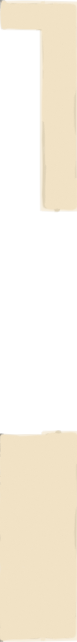
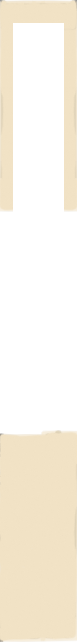
Updated Lock Tumblers
Updated and added more sprite files for tumblers and springs. Aligned and spawned assets within the ECS.

Changed region(s): [[0.0, 0.0312, 0.8312, 0.3427], [0.9351, 0.0, 1.0, 0.0312]]

diff --git a/lockpick/src/features/lock/systems.rs b/lockpick/src/features/lock/systems.rs
@@ -2,16 +2,21 @@ use bevy::prelude::*;
 use bevy::ui::debug::print_ui_layout_tree;
 use rand::prelude::*;
 
-use super::components::LockComponent;
+use super::components::{LockComponent, TumblerChamberComponent};
 use super::resource::{LockSpriteHandles, NumberOfTumblersToSpawn};
-use super::tumblers;
+use super::tumblers::components::TumblerComponent;
+use super::spring::components::SpringComponent;
 
 
 //Hardcoded Sprite Sizes so that they don't have to be sought dynamically, async loading is a pain in the ass
-const START_SPRITE_SIZE : f32= 669.0;
-const TUMBLER_SPRITE_SIZE : f32= 77.0;
-const END_SPRITE_SIZE : f32= 149.0;
+const LOCK_START_SPRITE_WIDTH: f32= 669.0;
+const TUMBLER_CHAMBER_SPRITE_WIDTH: f32= 77.0;
+const LOCK_END_SPRITE_WIDTH: f32= 149.0;
+const TOP_OF_CHAMBER: f32= 298.0;
 
+const HEIGHT_OF_TUMBLER_SPRITE: f32= 92.0;
+
+const HEIGHT_OF_SPRING_SPRITE: f32= 92.0;
 
 
 
@@ -24,12 +29,18 @@ pub fn load_sprite_resources(
     println!("Loading LockSprites!");
 
     let start_handle: Handle<Image> = asset_server.load("images/Test_for_Start_of_Lock.png");
-    let tumbler_handle: Handle<Image> = asset_server.load("images/Test_for_Tumbler_Section.png");
+    let tumbler_section_handle: Handle<Image> = asset_server.load("images/Test_for_Tumbler_Section.png");
     let end_handle: Handle<Image> = asset_server.load("images/Test_for_End_of_Lock.png");
+    let spring_handle: Handle<Image> = asset_server.load("images/Test_for_Spring.png");
+    let tumbler_handle: Handle<Image> = asset_server.load("images/Test_for_Tumbler.png");
     commands.insert_resource(LockSpriteHandles {
         start_sprite: start_handle,
-        tumbler_sprite: tumbler_handle,
-        end_sprite: end_handle
+        tumbler_chamber_sprite: tumbler_section_handle,
+        end_sprite: end_handle,
+        spring_sprite: spring_handle,
+        tumbler_sprite: tumbler_handle
+
+
     });
 
 }
@@ -69,7 +80,7 @@ pub fn spawn_lock(
     let mut offset: f32 = 0.0;
 
     //Sprites are spawned centered on their spawn coords, so the offset calculates where to place them
-    offset += (START_SPRITE_SIZE/2.0);
+    offset += (LOCK_START_SPRITE_WIDTH /2.0);
 
     let mut lock = LockComponent::default();
 
@@ -87,21 +98,39 @@ pub fn spawn_lock(
 
             )
         );
-        offset += START_SPRITE_SIZE/2.0 + TUMBLER_SPRITE_SIZE/2.0;
+        offset += LOCK_START_SPRITE_WIDTH /2.0 + TUMBLER_CHAMBER_SPRITE_WIDTH /2.0;
 
         for x in 1..=lock.num_of_tumblers {
             parent_node.spawn(
                 (
-                    Sprite::from_image(lock_sprite_handles.tumbler_sprite.clone()),
+                    Sprite::from_image(lock_sprite_handles.tumbler_chamber_sprite.clone()),
+                    TumblerChamberComponent,
                     Transform::from_xyz(offset, 0.0, 0.0),
 
                 )
             );
+            parent_node.spawn(
+                (
+                    Sprite::from_image(lock_sprite_handles.tumbler_sprite.clone()),
+                    TumblerComponent,
+                    Transform::from_xyz(offset, TOP_OF_CHAMBER-(HEIGHT_OF_TUMBLER_SPRITE /2.0)-(HEIGHT_OF_SPRING_SPRITE), 0.0),
+
+                )
+            );
+            parent_node.spawn(
+                (
+                    Sprite::from_image(lock_sprite_handles.spring_sprite.clone()),
+                    SpringComponent,
+                    Transform::from_xyz(offset, TOP_OF_CHAMBER-(HEIGHT_OF_SPRING_SPRITE /2.0), 0.0),
+
+                )
+            );
+
             if x != lock.num_of_tumblers {
-            offset += TUMBLER_SPRITE_SIZE;
+            offset += TUMBLER_CHAMBER_SPRITE_WIDTH;
             }
         };
-        offset += TUMBLER_SPRITE_SIZE/2.0 + END_SPRITE_SIZE/2.0;
+        offset += TUMBLER_CHAMBER_SPRITE_WIDTH /2.0 + LOCK_END_SPRITE_WIDTH /2.0;
 
         parent_node.spawn(
             (
@@ -114,7 +143,7 @@ pub fn spawn_lock(
 
             )
         );
-        offset += END_SPRITE_SIZE/2.0;
+        offset += LOCK_END_SPRITE_WIDTH /2.0;
 
     })
         //Add the offset back into the entity by replacing the Transform of the parent

diff --git a/lockpick/src/features/lock/resource.rs b/lockpick/src/features/lock/resource.rs
@@ -3,8 +3,10 @@ use bevy::prelude::*;
 #[derive(Resource)]
 pub struct LockSpriteHandles {
     pub start_sprite: Handle<Image>,
-    pub tumbler_sprite: Handle<Image>,
+    pub tumbler_chamber_sprite: Handle<Image>,
     pub end_sprite: Handle<Image>,
+    pub spring_sprite: Handle<Image>,
+    pub tumbler_sprite: Handle<Image>,
 }
 
 #[derive(Resource)]

diff --git a/lockpick/src/features/lock/components.rs b/lockpick/src/features/lock/components.rs
@@ -5,6 +5,10 @@ pub struct LockComponent {
     pub num_of_tumblers: u32,
 }
 
+#[derive(Component)]
+pub struct TumblerChamberComponent;
+
+//Implementations
 impl Default for LockComponent {
     fn default() -> Self {
         Self {

diff --git a/lockpick/src/features/lock/mod.rs b/lockpick/src/features/lock/mod.rs
@@ -1,5 +1,5 @@
-mod spring;
-mod tumblers;
+pub mod spring;
+pub mod tumblers;
 pub mod systems;
 mod components;
 pub mod resource;

diff --git a/lockpick/src/features/lock/tumblers/components.rs b/lockpick/src/features/lock/tumblers/components.rs
@@ -1,0 +1,8 @@
+use bevy::prelude::Component;
+
+//Naming Component
+#[derive(Component)]
+pub struct TumblerComponent;
+
+
+

diff --git a/lockpick/src/features/lock/spring/components.rs b/lockpick/src/features/lock/spring/components.rs
@@ -1,0 +1,5 @@
+use bevy::prelude::Component;
+
+//Naming Component
+#[derive(Component)]
+pub struct SpringComponent;

diff --git a/lockpick/src/features/lock/spring/mod.rs b/lockpick/src/features/lock/spring/mod.rs
@@ -1,0 +1,2 @@
+pub mod components;
+pub mod systems;

diff --git a/lockpick/src/features/lock/spring/systems.rs b/lockpick/src/features/lock/spring/systems.rs
@@ -1,0 +1,1 @@
+use bevy::prelude::*;
